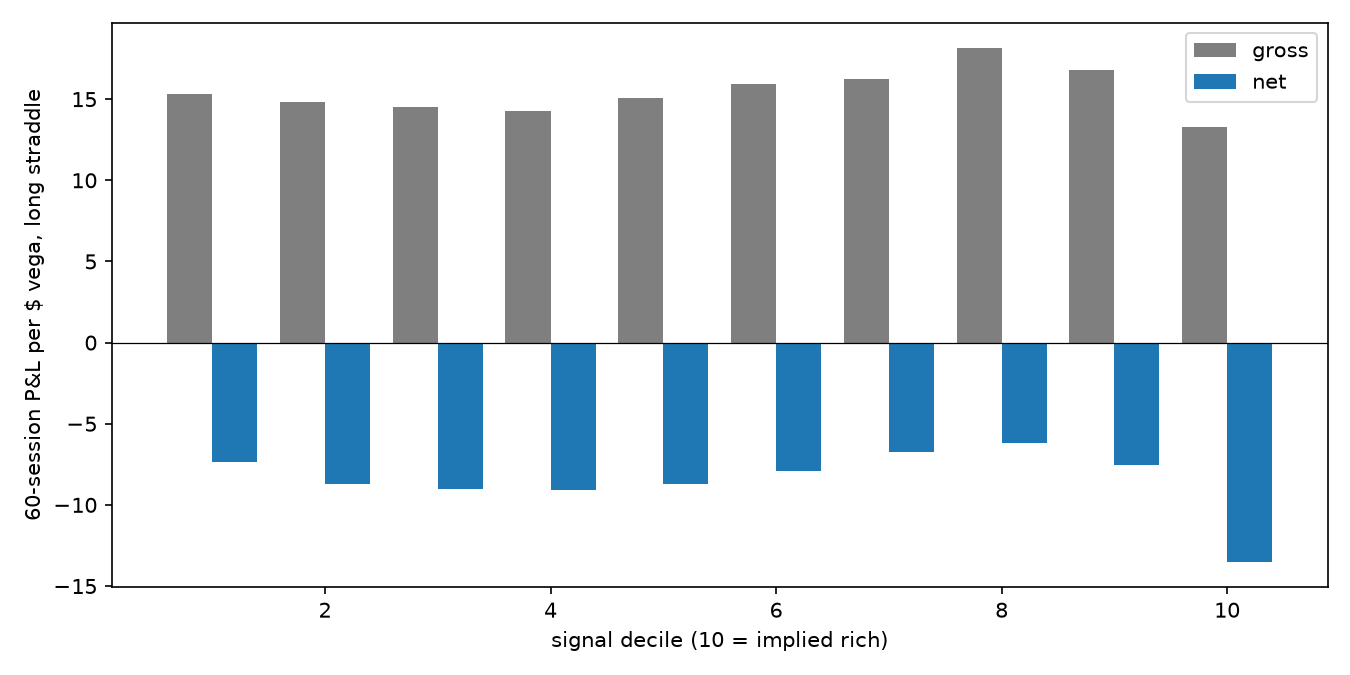
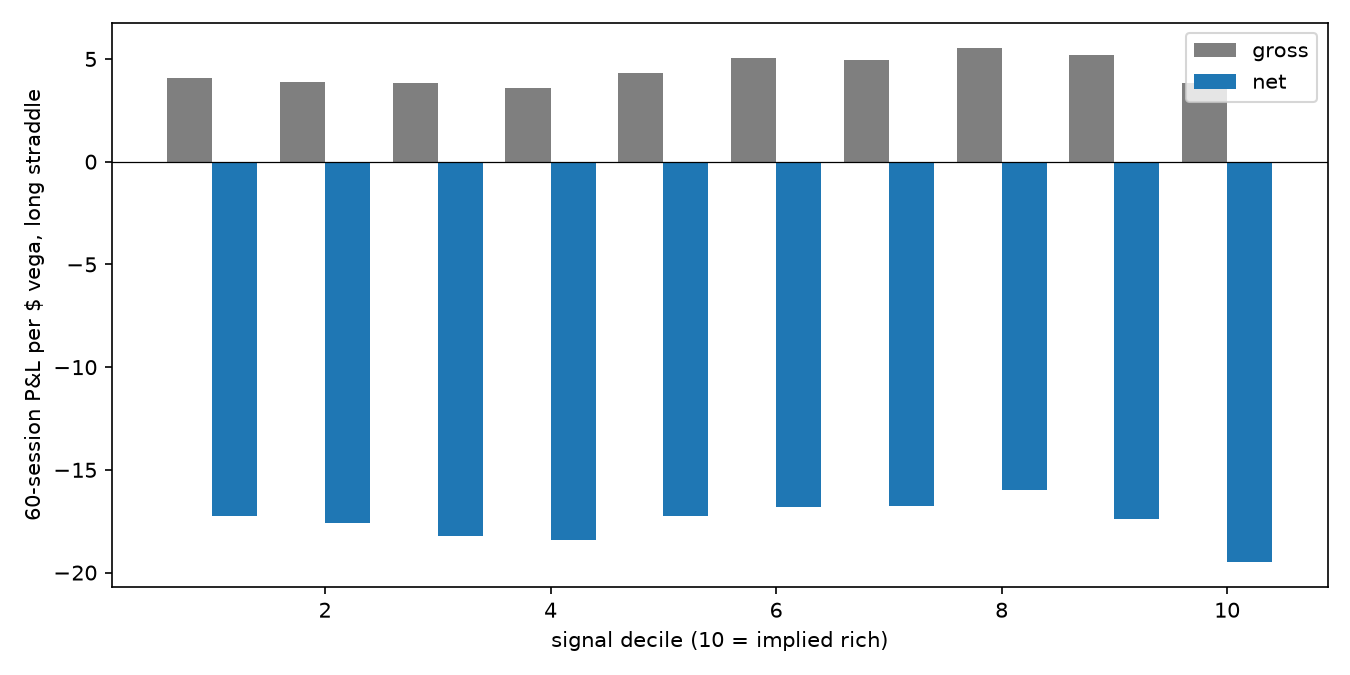
voltium: close-to-close realized vol and stock features off the chains
Reaches the whole option history where the stock file starts mid-2023.
level_book.py takes --rv-source close; the size control is dropped there
because the chains carry no stock volume.

Claude-Session: https://claude.ai/code/session_01EyGhNDwJUvcaUqL1XiScdg

diff --git a/voltium/demos/level_book.py b/voltium/demos/level_book.py
@@ -54,6 +54,7 @@ from voltium.providers.realized_vol import (
     HARConfig,
     HARForecaster,
     RealizedVolConfig,
+    compute_close_to_close_panel,
     compute_realized_vol_panel,
 )
 from voltium.providers.signals import CrossSectionalVRPSignal, SignalConfig, SignalProvider
@@ -67,7 +68,7 @@ from voltium.risk_model.constructor import FactorRiskModelConstructor
 from voltium.risk_model.spec import FactorSpec
 from voltium.risk_model.store import StoredFactorRiskModelConstructor
 from voltium.trade_generator import TradeGenerator, TradeGeneratorConfig
-from voltium.loaders import scan_options, scan_stocks
+from voltium.loaders import scan_options, scan_spot_from_chains, scan_stocks
 
 log = logging.getLogger("level_book")
 
@@ -123,6 +124,7 @@ class Panels:
     history_start: dt.date
     forward_end: dt.date
     started: float
+    rv_source: str
 
 
 def build_parser(description: str) -> argparse.ArgumentParser:
@@ -133,6 +135,12 @@ def build_parser(description: str) -> argparse.ArgumentParser:
     parser.add_argument("--refresh", action="store_true", help="rebuild cached panels")
     parser.add_argument("--limit", type=int, default=None, help="use only the first N symbols (smoke test)")
     parser.add_argument("--in-process", action="store_true", help="estimate the risk model here instead of reading the store")
+    parser.add_argument(
+        "--rv-source",
+        default="ohlc",
+        choices=["ohlc", "close"],
+        help="realized vol and stock features from the stock OHLC file (mid-2023 on) or close-to-close off the chains (2017 on)",
+    )
     return parser
 
 
@@ -181,15 +189,27 @@ def build_panels(args: argparse.Namespace) -> Panels:
     ).collect()
     log.info("surface: %d rows (%.0fs)", surface_df.height, time.time() - started)
 
-    rv_df = compute_realized_vol_panel(scan_stocks(paths, stock_start, forward_end, with_splits=True).filter(pl.col("symbol").is_in(symbols))).collect()
-    spx_rv_df = build_spx_indices_rv(paths, stock_start, forward_end)
+    if args.rv_source == "close":
+        # as far back as the calendar goes, so the HAR has the most history to fit on
+        stock_start = calendar.sessions[0]
+        rv_df = materialize(
+            compute_close_to_close_panel(scan_spot_from_chains(paths, symbols, stock_start, forward_end)),
+            CACHE_DIR / f"rv_close_{stock_start}_{forward_end}.parquet",
+            refresh=args.refresh,
+        )
+        spx_rv_df = compute_close_to_close_panel(
+            scan_spot_from_chains(paths, ["SPX"], stock_start, forward_end, index=True, with_splits=False)
+        ).collect()
+    else:
+        rv_df = compute_realized_vol_panel(scan_stocks(paths, stock_start, forward_end, with_splits=True).filter(pl.col("symbol").is_in(symbols))).collect()
+        spx_rv_df = build_spx_indices_rv(paths, stock_start, forward_end)
     forecaster = HARForecaster(HARConfig(forward_window=60))
     forecast_df = forecaster.forecast(rv_df, apply_df=spx_rv_df)
     spx_forecast_df = forecast_df.filter(pl.col("symbol") == "SPX")
     forecast_df = forecast_df.filter(pl.col("symbol") != "SPX")
     log.info("HAR: %d forecasts, last fit %s (%.0fs)", forecast_df.height, forecaster.coefficients_df.tail(1).to_dicts(), time.time() - started)
 
-    features = StockFeaturesProvider.from_store(paths, symbols, stock_start, forward_end)
+    features = StockFeaturesProvider.from_store(paths, symbols, stock_start, forward_end, source=args.rv_source)
     market_return_df = load_spx_closes(paths, history_start, forward_end)
 
     spec = FactorSpec(market_source="spx", use_sectors=True, window=250, min_observations=120)
@@ -204,7 +224,7 @@ def build_panels(args: argparse.Namespace) -> Panels:
         instrument=instrument, reference=reference, spx_reference=spx_reference,
         surface_df=surface_df, spx_surface_df=spx_surface_df, forecast_df=forecast_df, spx_forecast_df=spx_forecast_df,
         features=features, market_return_df=market_return_df, spec=spec, risk_model_constructor=risk_model_constructor,
-        history_start=history_start, forward_end=forward_end, started=started,
+        history_start=history_start, forward_end=forward_end, started=started, rv_source=args.rv_source,
     )
 
 
@@ -218,8 +238,11 @@ def build_vrp_signal(panels: Panels) -> CrossSectionalVRPSignal:
     if spx_vrp_df.is_empty():
         log.warning("no SPX variance premium available; falling back to the universe mean")
         spx_vrp_df = None
+    # no stock volume off the chains, so no size control before the stock file
+    controls = ("idio_vol",) if panels.rv_source == "close" else ("log_size", "idio_vol")
     signal = CrossSectionalVRPSignal(
-        panels.surface_df, panels.forecast_df, panels.features.panel_df, panels.sectors_df, panels.spec, SignalConfig(), spx_vrp_df
+        panels.surface_df, panels.forecast_df, panels.features.panel_df, panels.sectors_df, panels.spec,
+        SignalConfig(controls=controls), spx_vrp_df,
     )
     log.info("signal: %d rows, spx factor used: %s", signal.panel_df.height, signal.used_spx)
     return signal
@@ -254,6 +277,7 @@ def run_book(args: argparse.Namespace, panels: Panels, signal: SignalProvider, t
         hedge_cost=PerShareCost(0.005),
     )
     records_df, portfolio = backtester.run()
+    tag = f"{tag}_{args.start.year}_{args.end.year}" if args.rv_source == "close" else tag
     records_df.write_parquet(DEMO_DIR / f"records_{tag}.parquet")
     portfolio.save(DEMO_DIR / f"portfolio_{tag}.json")
     log.info("backtest done (%.0fs)", time.time() - started)

diff --git a/voltium/src/voltium/providers/stock_features.py b/voltium/src/voltium/providers/stock_features.py
@@ -13,7 +13,10 @@ in a market-cap provider here when one exists.
 
 The market return defaults to the SPX close from the index chain's
 `underlying` column, which reaches the whole option history; the stock file
-only starts mid-2023.
+only starts mid-2023. `compute_stock_features` accepts a closes-only frame
+(`loaders.scan_spot_from_chains`) for that history; `log_size` is then null,
+since the chains carry no stock volume, and the signal drops it from its
+controls.
 """
 
 from __future__ import annotations
@@ -23,7 +26,7 @@ from dataclasses import dataclass
 
 import polars as pl
 
-from voltium.loaders import DataPaths, scan_options, scan_stocks
+from voltium.loaders import DataPaths, scan_options, scan_spot_from_chains, scan_stocks
 from voltium.providers.base import PanelProvider
 
 SESSIONS_PER_YEAR = 252
@@ -57,8 +60,11 @@ def compute_stock_features(
     stocks: pl.LazyFrame, market_df: pl.DataFrame, config: StockFeatureConfig = StockFeatureConfig()
 ) -> pl.LazyFrame:
     by = "symbol"
-    if "split_ratio" not in stocks.collect_schema().names():
+    columns = stocks.collect_schema().names()
+    if "split_ratio" not in columns:
         stocks = stocks.with_columns(pl.lit(1.0).alias("split_ratio"))
+    if "volume" not in columns:
+        stocks = stocks.with_columns(pl.lit(None, dtype=pl.Int64).alias("volume"))
     frame = (
         stocks.sort("symbol", "date")
         .with_columns((pl.col("close") * pl.col("split_ratio") / pl.col("close").shift(1).over(by)).log().alias("ret"))
@@ -92,9 +98,15 @@ class StockFeaturesProvider(PanelProvider):
         start: dt.date | None,
         end: dt.date | None,
         config: StockFeatureConfig = StockFeatureConfig(),
+        source: str = "ohlc",
     ) -> "StockFeaturesProvider":
-        stocks = scan_stocks(paths, start, end, with_splits=True)
-        if symbols is not None:
-            stocks = stocks.filter(pl.col("symbol").is_in(symbols))
+        """`source="ohlc"` reads the stock file (mid-2023 on); `"close"` reads
+        spot off the chains (2017 on, no volume, so no `log_size`)."""
+        if source == "close":
+            stocks = scan_spot_from_chains(paths, symbols, start, end)
+        else:
+            stocks = scan_stocks(paths, start, end, with_splits=True)
+            if symbols is not None:
+                stocks = stocks.filter(pl.col("symbol").is_in(symbols))
         market_df = load_spx_closes(paths, start, end)
         return cls(compute_stock_features(stocks, market_df, config).collect())

diff --git a/voltium/src/voltium/providers/realized_vol.py b/voltium/src/voltium/providers/realized_vol.py
@@ -96,6 +96,40 @@ def compute_realized_vol_panel(
     )
 
 
+def compute_close_to_close_panel(
+    closes: pl.LazyFrame, config: RealizedVolConfig = RealizedVolConfig()
+) -> pl.LazyFrame:
+    """The same panel from closes only: `(date, symbol, close[, split_ratio])`.
+
+    Realized variance over `n` sessions is the mean squared split-adjusted
+    log return, annualised; `rv_1` is the single day's squared return. This
+    is the estimator that reaches the whole option history (see
+    `loaders.scan_spot_from_chains`); Yang-Zhang needs OHLC and the stock
+    file only starts mid-2023. Same columns, so the HAR is indifferent.
+    """
+    by = "symbol"
+    if "split_ratio" not in closes.collect_schema().names():
+        closes = closes.with_columns(pl.lit(1.0).alias("split_ratio"))
+    frame = (
+        closes.filter(pl.col("close") >= config.min_price)
+        .sort("symbol", "date")
+        .with_columns(
+            ((pl.col("close") * pl.col("split_ratio") / pl.col("close").shift(1).over(by)).log() ** 2).alias("squared")
+        )
+    )
+
+    def variance(n: int) -> pl.Expr:
+        daily = pl.col("squared") if n == 1 else pl.col("squared").rolling_mean(n)
+        return daily * SESSIONS_PER_YEAR
+
+    n = config.forward_window
+    return (
+        frame.with_columns([variance(w).over(by).sqrt().alias(f"rv_{w}") for w in config.windows])
+        .with_columns(variance(n).shift(-n).over(by).sqrt().alias("rv_fwd"))
+        .select("date", "symbol", *[f"rv_{w}" for w in config.windows], "rv_fwd")
+    )
+
+
 class RealizedVolProvider(Provider):
     """`get(date) -> (date, symbol, rv_1, rv_5, rv_22, rv_fwd)`."""
 

diff --git a/voltium/src/voltium/loaders.py b/voltium/src/voltium/loaders.py
@@ -525,6 +525,34 @@ def run_vega_check(sample_file: Path, rate: float = 0.04, rows: int = 400) -> Ve
     )
 
 
+def scan_spot_from_chains(
+    paths: DataPaths,
+    symbols: list[str] | None = None,
+    start: dt.date | None = None,
+    end: dt.date | None = None,
+    index: bool = False,
+    with_splits: bool = True,
+) -> pl.LazyFrame:
+    """`(date, symbol, close[, split_ratio])` from the chains' `underlying` column.
+
+    The stock file starts mid-2023; the chains carry the spot every greek was
+    struck against back to 2017, and it equals the stock close where both
+    exist. No open/high/low/volume, so this feeds the close-to-close
+    estimators only.
+    """
+    frame = (
+        scan_options(paths, symbols, start, end, index=index, with_oi=False)
+        .filter(pl.col("underlying") > 0)
+        .select("date", "symbol", pl.col("underlying").alias("close"))
+        .unique(subset=["date", "symbol"])
+    )
+    if with_splits and not index:
+        frame = frame.join(scan_splits(paths), on=["date", "symbol"], how="left").with_columns(
+            pl.col("split_ratio").fill_null(1.0)
+        )
+    return frame.sort("symbol", "date")
+
+
 # --------------------------------------------------------------------------
 # Risk model tables (written by data_pipelines.cli vol-risk-model)
 # --------------------------------------------------------------------------

diff --git a/voltium/tests/test_realized_vol.py b/voltium/tests/test_realized_vol.py
@@ -64,3 +64,14 @@ def test_har_forecaster_has_no_lookahead():
     joined = baseline.join(perturbed, on=["date", "symbol"], suffix="_perturbed").filter(pl.col("date") <= cutoff)
     assert joined.height > 100
     assert (joined["rv_fcst"] - joined["rv_fcst_perturbed"]).abs().max() < 1e-12
+
+
+def test_close_to_close_panel_matches_yang_zhang_scale():
+    from voltium.providers.realized_vol import compute_close_to_close_panel
+
+    stocks_df = make_stock_panel(n_days=800, n_symbols=2)
+    yz = compute_realized_vol_panel(stocks_df.lazy()).collect()
+    cc = compute_close_to_close_panel(stocks_df.lazy().select("date", "symbol", "close")).collect()
+    assert cc.columns == yz.columns
+    ratio = cc["rv_22"].drop_nulls().median() / yz["rv_22"].drop_nulls().median()
+    assert 0.7 < ratio < 1.4
